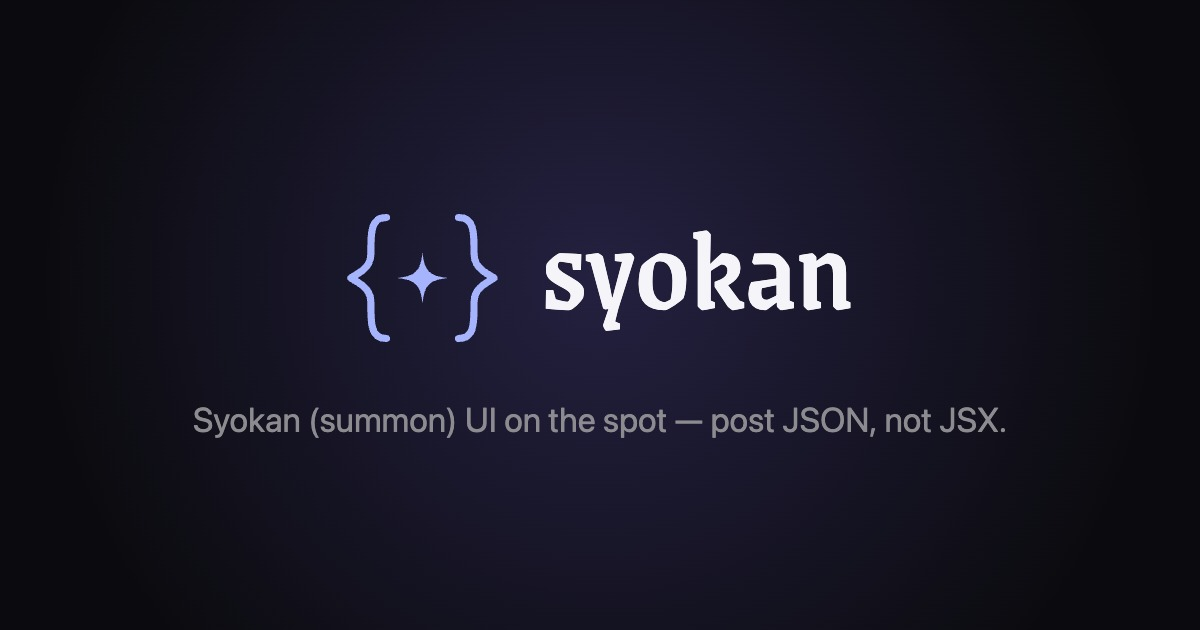
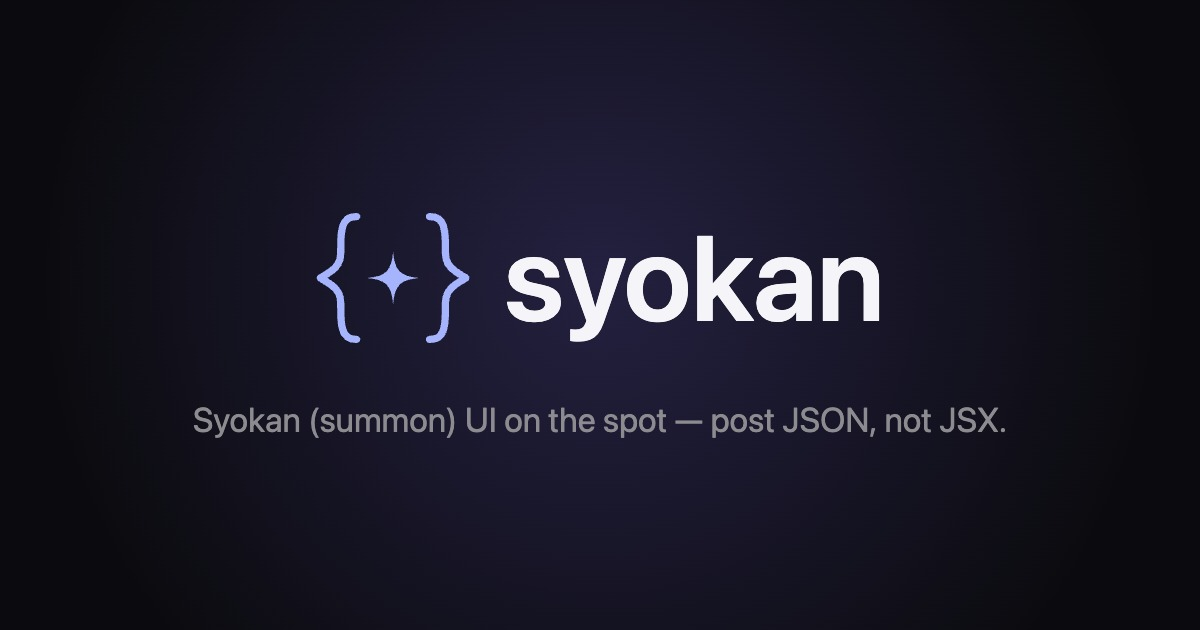
fix(brand): lockup のワードマークを既定 sans に戻す
幾何的な {✦} マークにブラックレター (Grenze Gotisch) が浮くため、アプリ既定の
sans (semibold) に変更。埋め込み @user / .font-brand / OFL を削除し、OGP 画像も
同じ書体で再生成して整合させた。

Changed region(s): [[0.2467, 0.3317, 0.74, 0.5429]]

diff --git a/apps/syokan/src/styles.css b/apps/syokan/src/styles.css
@@ -130,20 +130,3 @@
     opacity: 1;
   }
 }
-
-/* Brand wordmark face: Grenze Gotisch, subset to just the glyphs in "syokan" (~1.5KB) and
-   inlined so the lockup is self-contained (no runtime CDN) and unaffected by the
-   user-selectable app font. Used only by .font-brand (the LogoLockup wordmark).
-   Source: Google Fonts (Omnibus-Type/Grenze-Gotisch), subset via the css2 `text=` API.
-   Licensed under SIL OFL 1.1 — full license + copyright: components/Logo/GrenzeGotisch-OFL.txt */
-@font-face {
-  font-family: "Grenze Gotisch";
-  font-style: normal;
-  font-weight: 500;
-  font-display: swap;
[1 lines of base64/hex data omitted]
-}
-.font-brand {
-  font-family: "Grenze Gotisch", serif;
-  font-weight: 500;
-}

diff --git a/apps/syokan/src/components/LogoLockup/index.tsx b/apps/syokan/src/components/LogoLockup/index.tsx
@@ -2,10 +2,11 @@ import { BRACE_LEFT, BRACE_RIGHT, SIGIL_VIEWBOX_TIGHT, SPARK } from "../Logo";
 import { cn } from "../../lib/utils";
 
 /**
- * The brand lockup: the `{ ✦ }` mark set with the lowercase "syokan" wordmark in Grenze
- * Gotisch (a gothic blackletter that reads incantation-like). The mark uses a tight viewBox
- * so it sits flush against the wordmark instead of floating inside the square icon padding.
- * Both mark and text follow currentColor; size the whole thing with font-size (via className).
+ * The brand lockup: the `{ ✦ }` mark set flush against the lowercase "syokan" wordmark. The
+ * wordmark stays in the app's own sans (semibold) — the geometric mark pairs better with a
+ * plain typeface than a display face. The mark uses a tight viewBox so it sits against the
+ * word instead of floating in the square icon padding. Both mark and text follow currentColor;
+ * size the whole thing with font-size (via className).
  */
 type LogoLockupProps = {
   /** Accessible name. For decorative use (e.g. another element labels the region), pass "" to aria-hide. */
@@ -21,7 +22,7 @@ export function LogoLockup({ title = "syokan", className }: LogoLockupProps) {
       aria-label={decorative ? undefined : title}
       aria-hidden={decorative || undefined}
       className={cn(
-        "font-brand inline-flex items-center gap-[0.36em] leading-none tracking-[0.02em]",
+        "inline-flex items-center gap-[0.28em] font-semibold leading-none tracking-tight",
         className,
       )}
     >
@@ -33,9 +34,8 @@ export function LogoLockup({ title = "syokan", className }: LogoLockupProps) {
         strokeWidth="3.2"
         strokeLinecap="round"
         strokeLinejoin="round"
-        // ~1.2x the wordmark's small-cap ink height (measured 0.636em) so the mark reads as
-        // an emblem sitting with the letters, not towering over them
-        className="h-[0.78em] w-auto"
+        // ~cap height so the mark sits with the letters rather than towering over them
+        className="h-[0.82em] w-auto"
         xmlns="http://www.w3.org/2000/svg"
       >
         <path d={BRACE_LEFT} />